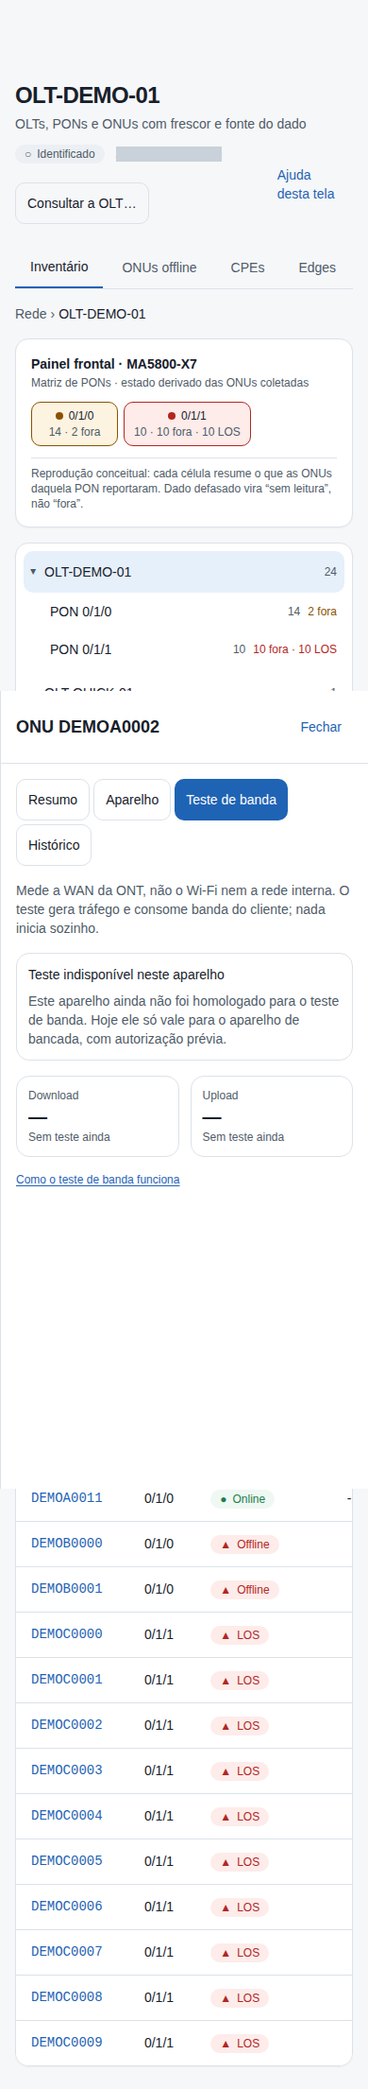
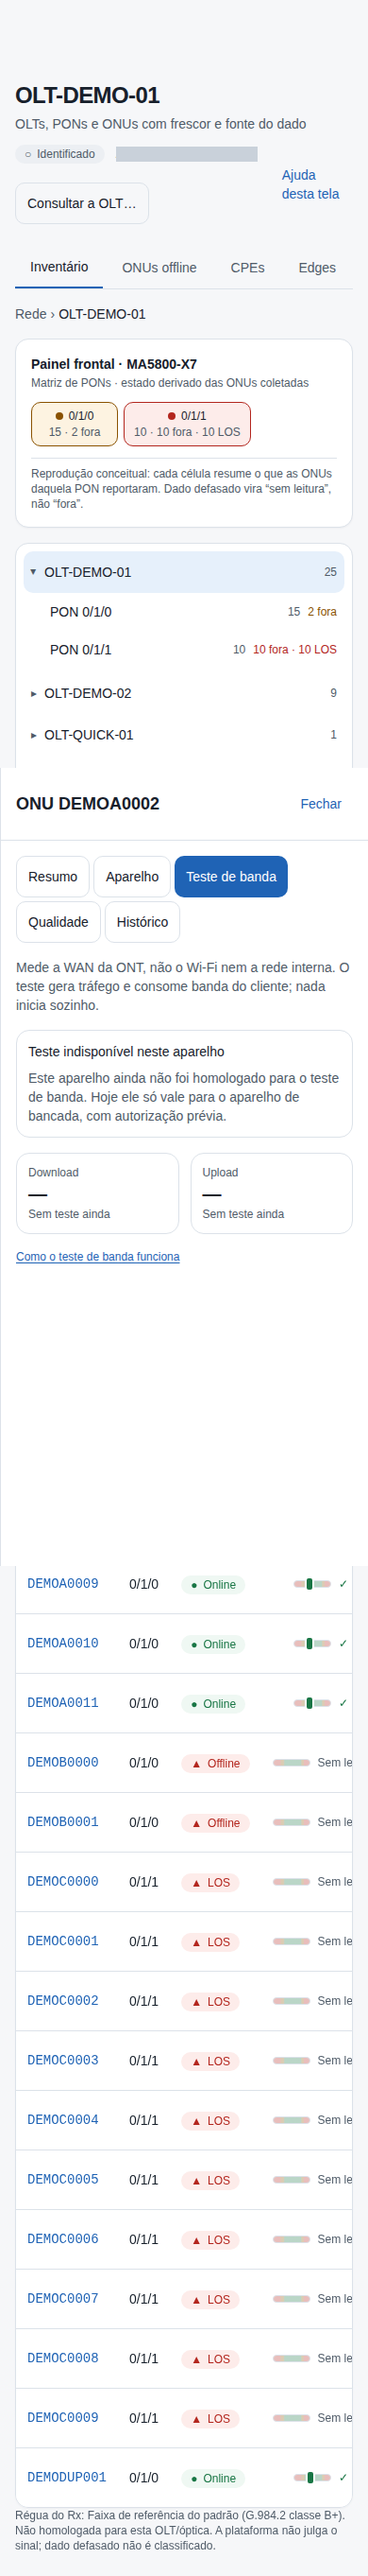
fix(web): BFF do ping envia o corpo bruto (a tela nunca carregava) e e2e de UI do ping
Claude-Session: https://claude.ai/code/session_01G65B8a86N96ZoCrjd2Ad9b

diff --git a/apps/web/e2e/ping.spec.ts b/apps/web/e2e/ping.spec.ts
@@ -1,0 +1,149 @@
+import AxeBuilder from "@axe-core/playwright";
+import { expect, test, type APIRequestContext, type Page } from "@playwright/test";
+import { API_URL, EMAIL, login, PASSWORD } from "./helpers";
+
+// Teste de ping TR-143 (ADR-0039), aba "Ping e latência" do Diagnóstico da ONU. O estado "indisponível" do primeiro teste é REAL (a API; o aparelho demo não é de bancada). Os demais estados dependem de
+// homologação em equipamento e de um destino de ping no Edge, que não existem aqui: são CENÁRIOS, com a resposta da rota BFF simulada no navegador. Nada aqui é medição de equipamento real.
+const row = (page: Page, serial: string) => page.getByTestId("onu-open").filter({ hasText: serial });
+const PING_URL = /\/bff\/cpes\/[^/]+\/ping(\?.*)?$/;   // com ou sem `?run=` (a leitura pergunta pelo pedido aceito)
+const RUN_ID = "11111111-1111-4111-8111-111111111111";
+const RUN = (over: Record<string, unknown> = {}) => ({
+  id: RUN_ID, target_id: "core-lab", status: "completed", created_at: new Date().toISOString(), sent: 5, success: 5, failure: 0, loss_pct: 0, avg_ms: 12, min_ms: 11, max_ms: 14, spread_ms: 3, reason: null, ...over,
+});
+const CAPS = (over: Record<string, unknown> = {}) => ({
+  bench_target: true, test: { offered: true, reason: null }, ready: true, shape: { repetitions: 5, timeout_ms: 1000 }, limits: { per_cpe_per_hour: 6 },
+  targets: [{ id: "core-lab", label: "Core do laboratório", target_kind: "CORE", region: "LAB", ready: true }], ...over,
+});
+
+async function confirmDemoA2(request: APIRequestContext) {
+  const tok = (await (await request.post(`${API_URL}/v1/auth/token`, { data: { email: EMAIL, password: PASSWORD } })).json()).access_token as string;
+  const h = { Authorization: `Bearer ${tok}` };
+  expect((await request.post(`${API_URL}/v1/onu-cpe-links/suggest`, { headers: h })).status()).toBe(201);
+  const links = (await (await request.get(`${API_URL}/v1/onu-cpe-links?status=suggested&limit=200`, { headers: h })).json()) as { id: string; onu: { serial: string } }[];
+  const mine = links.find((l) => l.onu.serial === "DEMOA0002");
+  if (mine) expect((await request.post(`${API_URL}/v1/onu-cpe-links/${mine.id}/confirm`, { headers: h })).status()).toBe(200);
+}
+
+async function openPing(page: Page) {
+  await page.setViewportSize({ width: 1440, height: 900 });
+  await login(page);
+  await page.goto("/rede");
+  await row(page, "DEMOA0002").click();
+  await page.getByTestId("onu-diag-link").click();
+  await page.getByTestId("diag-tab-latencia").click();
+}
+
+test("ping: no aparelho demo o teste está indisponível, com o motivo, e não há botão de pedir (estado REAL)", async ({ page, request }) => {
+  await confirmDemoA2(request);
+  await openPing(page);
+  const blocked = page.getByTestId("ping-blocked");
+  await expect(blocked).toBeVisible();
+  await expect(blocked).toHaveAttribute("data-reason", "operation_not_homologated");
+  await expect(blocked).toContainText("Teste indisponível neste aparelho");
+  await expect(page.getByTestId("ping-start")).toHaveCount(0);
+  await expect(page.getByTestId("ping-kpis")).toContainText("—");
+  await expect(page.getByTestId("ping-kpis")).not.toContainText("0 ms");
+  await expect(page.getByTestId("ping-limits")).toContainText("Jitter e DNS: não disponíveis");
+  expect((await new AxeBuilder({ page: page as never }).include('[data-testid="ping-section"]').analyze()).violations).toEqual([]);
+});
+
+test("ping (cenário): o pedido envia só a chave e o nome lógico do destino e passa a aguardar a aprovação de outra pessoa", async ({ page, request }) => {
+  await confirmDemoA2(request);
+  let posted: Record<string, unknown> | null = null;
+  let runs: unknown[] = [];
+  await page.route(PING_URL, (r) => r.fulfill({ json: { caps: CAPS(), runs } }));
+  await page.route("**/bff/cpes/*/ping/runs", async (r) => {
+    posted = r.request().postDataJSON();
+    runs = [RUN({ status: "awaiting_approval", sent: null, success: null, failure: null, loss_pct: null, avg_ms: null, min_ms: null, max_ms: null, spread_ms: null })];
+    await r.fulfill({ status: 201, json: { ok: true, outcome: "submitted", run_id: RUN_ID } });
+  });
+  await openPing(page);
+  await expect(page.getByTestId("ping-target")).toHaveValue("core-lab");
+  await page.getByTestId("ping-start").click();
+  await expect(page.getByTestId("ping-active")).toContainText("Aguardando aprovação de outra pessoa");
+  expect(Object.keys(posted ?? {}).sort()).toEqual(["key", "target_id"]);                            // nenhum endereço, nenhum parâmetro do aparelho
+  expect((posted as { target_id?: string } | null)?.target_id).toBe("core-lab");
+  await expect(page.getByTestId("ping-start")).toBeDisabled();
+  await expect(page.getByTestId("ping-pending")).toHaveCount(0);                                     // a leitura já mostra a execução: sem trava de pedido
+});
+
+test("ping (cenário): resultado concluído mostra latência e perda; campo sem medição é traço, nunca zero", async ({ page, request }) => {
+  await confirmDemoA2(request);
+  await page.route(PING_URL, (r) => r.fulfill({ json: { caps: CAPS(), runs: [RUN({ loss_pct: 20, success: 4, failure: 1, avg_ms: 12 })] } }));
+  await openPing(page);
+  const k = page.getByTestId("ping-kpis");
+  await expect(k).toContainText("11 ms");
+  await expect(k).toContainText("14 ms");
+  await expect(k).toContainText("20 %");
+  await expect(page.getByTestId("ping-limits")).toContainText("Amplitude (máx − mín): 3 ms");
+  await page.getByTestId("ping-history").locator("summary").click();
+  await expect(page.getByTestId("ping-history-row").first()).toContainText("4/5 respostas");
+  // inconclusivo: sem números inventados
+  await page.unroute(PING_URL);
+  await page.route(PING_URL, (r) => r.fulfill({ json: { caps: CAPS(), runs: [RUN({ status: "inconclusive", loss_pct: null, avg_ms: null, min_ms: null, max_ms: null, spread_ms: null, sent: null, success: null, failure: null, reason: "no_times" })] } }));
+  await page.reload();
+  await expect(page.getByTestId("ping-kpis")).not.toContainText(" ms");
+  await expect(page.getByTestId("ping-kpis")).not.toContainText("0 %");
+  await page.getByTestId("ping-history").locator("summary").click();
+  await expect(page.getByTestId("ping-history-row").first()).toContainText("não informou os tempos de resposta");
+});
+
+test("ping (cenário): resposta 502 ao pedido é AMBÍGUA: trava, e Confirmar pedido repete a MESMA chave e o MESMO destino", async ({ page, request }) => {
+  await confirmDemoA2(request);
+  const bodies: { key: string; target_id: string }[] = [];
+  let runs: unknown[] = [];
+  await page.route(PING_URL, (r) => r.fulfill({ json: { caps: CAPS(), runs } }));
+  await page.route("**/bff/cpes/*/ping/runs", async (r) => {
+    bodies.push(r.request().postDataJSON());
+    if (bodies.length === 1) return r.fulfill({ status: 502, json: { error: "failed" } });            // a primeira resposta se perde: o pedido pode ter chegado
+    runs = [RUN({ status: "awaiting_approval" })];
+    return r.fulfill({ status: 201, json: { ok: true, outcome: "submitted", run_id: RUN_ID } });
+  });
+  await openPing(page);
+  await page.getByTestId("ping-start").click();
+  await expect(page.getByTestId("ping-pending")).toContainText("a confirmação não chegou");
+  await expect(page.getByTestId("ping-start")).toBeDisabled();                                       // travado: nada de segundo clique
+  await page.getByTestId("ping-pending-confirm").click();
+  await expect(page.getByTestId("ping-active")).toContainText("Aguardando aprovação");
+  expect(bodies.length).toBe(2);
+  expect(bodies[1]).toEqual(bodies[0]);                                                              // a MESMA chave de idempotência e o MESMO destino
+});
+
+test("ping (cenário): pedido aceito só destrava quando uma leitura mostra ESSA execução (nunca pelo relógio)", async ({ page, request }) => {
+  await confirmDemoA2(request);
+  let mode: "none" | "other" | "seen" = "none";
+  await page.route(PING_URL, (r) => r.fulfill({ json: {
+    caps: CAPS(), runs: mode === "other" ? [RUN({ id: "33333333-3333-4333-8333-333333333333" })] : [],
+    ...(r.request().url().includes("run=") ? { run_seen: mode === "seen" } : {}),
+  } }));
+  await page.route("**/bff/cpes/*/ping/runs", (r) => r.fulfill({ status: 201, json: { ok: true, outcome: "submitted", run_id: RUN_ID } }));
+  await openPing(page);
+  await page.clock.install();
+  await page.getByTestId("ping-start").click();
+  await expect(page.getByTestId("ping-pending")).toContainText("Aguardando a leitura mostrar a execução");
+  await page.clock.fastForward("21:00");                                                             // passa qualquer prazo: o relógio não prova nada
+  await expect(page.getByTestId("ping-pending")).toBeVisible();
+  await expect(page.getByTestId("ping-start")).toBeDisabled();
+  mode = "other";                                                                                    // a execução de OUTRA pessoa aparece: não prova nada
+  await page.getByTestId("ping-pending-refresh").click();
+  await expect(page.getByTestId("ping-pending")).toBeVisible();
+  await expect(page.getByTestId("ping-start")).toBeDisabled();
+  mode = "seen";                                                                                     // o BFF confirma pelo id que a execução existe
+  await page.getByTestId("ping-pending-refresh").click();
+  await expect(page.getByTestId("ping-pending")).toHaveCount(0);
+  await expect(page.getByTestId("ping-start")).toBeEnabled();
+});
+
+test("ping (cenário): recusa definitiva (409) mostra o motivo em palavras e não trava; falha de carga tem nova tentativa", async ({ page, request }) => {
+  await confirmDemoA2(request);
+  let reads = 0;
+  await page.route(PING_URL, (r) => { reads += 1; return reads === 1 ? r.fulfill({ status: 502, json: { error: "failed" } }) : r.fulfill({ json: { caps: CAPS(), runs: [] } }); });
+  await page.route("**/bff/cpes/*/ping/runs", (r) => r.fulfill({ status: 409, json: { error: "blocked", reason: "cpe_busy" } }));
+  await openPing(page);
+  await expect(page.getByTestId("ping-error")).toContainText("Não foi possível carregar o teste de ping");
+  await page.getByRole("button", { name: "Tentar novamente" }).click();
+  await page.getByTestId("ping-start").click();
+  await expect(page.getByTestId("ping-refusal")).toContainText("Já existe um teste em andamento neste aparelho");
+  await expect(page.getByTestId("ping-pending")).toHaveCount(0);
+  await expect(page.getByTestId("ping-start")).toBeEnabled();                                        // nada foi criado: a trava saiu
+});

diff --git a/apps/web/playwright.config.ts b/apps/web/playwright.config.ts
@@ -21,7 +21,7 @@ export default defineConfig({
     { name: "funcional", testMatch: /app\.spec\.ts/, dependencies: ["capturas"], use: { browserName: "chromium" } },
     // Por último: reconhecer o incidente demo muda o estado que os testes acima assumem (não reconhecido).
     { name: "posteriores", testMatch: /noc-ack-and-search\.spec\.ts/, dependencies: ["funcional"], use: { browserName: "chromium" } },
-    { name: "inspetor", testMatch: /onu-(quick|workspace)\.spec\.ts|(speed|quality)\.spec\.ts/, dependencies: ["funcional"], use: { browserName: "chromium" } },
+    { name: "inspetor", testMatch: /onu-(quick|workspace)\.spec\.ts|(speed|quality|ping)\.spec\.ts/, dependencies: ["funcional"], use: { browserName: "chromium" } },
     // Recuo com a flag `onu_quick_inspector` DESLIGADA no provedor: sem dependência de `funcional` (que exige a flag ligada). Só roda com ASSINANTE_HISTORICO_FLAG_OFF=1:
     // npx playwright test --project=recuo-historico
     { name: "recuo-historico", testMatch: /assinante-historico-flag\.spec\.ts/, use: { browserName: "chromium" } },

diff --git a/apps/web/src/app/bff/cpes/[id]/ping/route.ts b/apps/web/src/app/bff/cpes/[id]/ping/route.ts
@@ -15,7 +15,8 @@ export async function GET(req: Request, ctx: { params: Promise<{ id: string }> }
   if (c.data && r.data) {
     const caps = readPingCaps(c.data), runs = readPingRuns(r.data);
     const run_seen = one ? (one.status === 200 ? true : one.status === 404 ? false : null) : null;
-    return caps && runs ? reply({ caps, runs, run_seen }) : reply({ error: "failed" }, 502);
+    // validado aqui E de novo na tela: o corpo que segue é o da API (a tela lê o formato bruto), nunca o objeto já tratado (a tela o recusaria)
+    return caps && runs ? reply({ caps: c.data, runs: (r.data as { items: unknown[] }).items, run_seen }) : reply({ error: "failed" }, 502);
   }
   const bad = c.status !== 200 ? c : r;   // o status/código da leitura que FALHOU (uma delas respondeu erro; se as duas responderam 200, o corpo é que não tem o formato)
   const st = c.status === 200 && r.status === 200 ? 502 : bad.status;

diff --git a/scripts/seed_demo.py b/scripts/seed_demo.py
@@ -85,6 +85,7 @@ def main() -> None:
     cli("feature-set", tenant, "onu_quick_inspector", "on")
     cli("feature-set", tenant, "speed_diagnostics", "on")   # só a tela: o teste continua bloqueado (o aparelho demo não é de bancada)
     cli("feature-set", tenant, "quality_diagnostics", "on")   # leitura passiva (ADR-0039): só lê o cache e a OLT sintéticos
+    cli("feature-set", tenant, "quality_active_tests", "on")   # só a TELA do ping (ADR-0039): o aparelho demo não é de bancada, então o teste segue indisponível
     r = c.post("/v1/edge/cpe-snapshots", headers=h, json={"edge_id": edge, "observed_at": datetime.now(UTC).isoformat(), "cpes": [
         {"canonical_serial": f"DEMOCPE{i:03d}", "vendor": "Huawei", "model": "HG8245H",
          "binding": {"protocol": "tr069", "external_id": f"DEMO-OUI-HG8245H-DEMOCPE{i:03d}", "connector_id": "genieacs-demo"}} for i in range(5)]

diff --git a/docs/wiki/CHANGELOG.md b/docs/wiki/CHANGELOG.md
@@ -1,5 +1,9 @@
 # Changelog
 
+## Unreleased — teste de UI do ping e correção do BFF que impedia a tela de carregar (2026-11-02)
+- **Correção (bug real):** o BFF `/bff/cpes/{id}/ping` devolvia as capacidades já tratadas, e `PingTestSection` as tratava de novo esperando o formato bruto da API: a leitura voltava `null` e a aba **Ping e latência** do Diagnóstico mostrava sempre "Não foi possível carregar o teste de ping". Achado pelo primeiro e2e de UI do ping (o estado REAL). Agora o BFF valida e envia o corpo bruto da API (`caps`) e a lista (`runs`). A LAB ainda roda o web anterior: precisa de novo deploy do web.
+- Testes: `e2e/ping.spec.ts` (6): estado REAL indisponível no aparelho demo (com axe), pedido que envia só `{key, target_id}`, resultado com traço no lugar de número ausente, 502 ambíguo com **Confirmar pedido** repetindo a MESMA chave e o MESMO destino, trava que só sai quando uma leitura mostra ESSA execução (nunca pelo relógio, nunca pela execução de outra pessoa), recusa 409 sem trava. O seed do e2e passa a ligar `quality_active_tests` no provedor demo (só a tela; o aparelho demo segue sem homologação). Inspetor completo: 55 passed, 2 skipped (os de flag desligada).
+
 ## Unreleased — aba Histórico na Visão 360 do assinante (2026-11-02)
 - Web: `/assinantes/[id]` ganha a aba **Histórico** (30 dias de mudanças de estado da ONU, o mesmo componente, a mesma rota e a mesma flag `onu_quick_inspector` do painel da Rede). Só existe com ONU aprovada e a flag ligada; o Wi-Fi continua sem aba (sem fonte homologada). Nenhuma rota nova. E2E funcional: 32 passed (o teste da Visão 360 abre a aba, confere as quedas e a primeira observação, e passa pelo axe nela). Recuo provado (`ASSINANTE_HISTORICO_FLAG_OFF=1`, spec `assinante-historico-flag`): com `onu_quick_inspector` desligada a aba não existe, `?aba=historico` cai na Conexão e nenhum pedido de histórico sai; com a flag ligada o mesmo teste falha (controle negativo).
 
